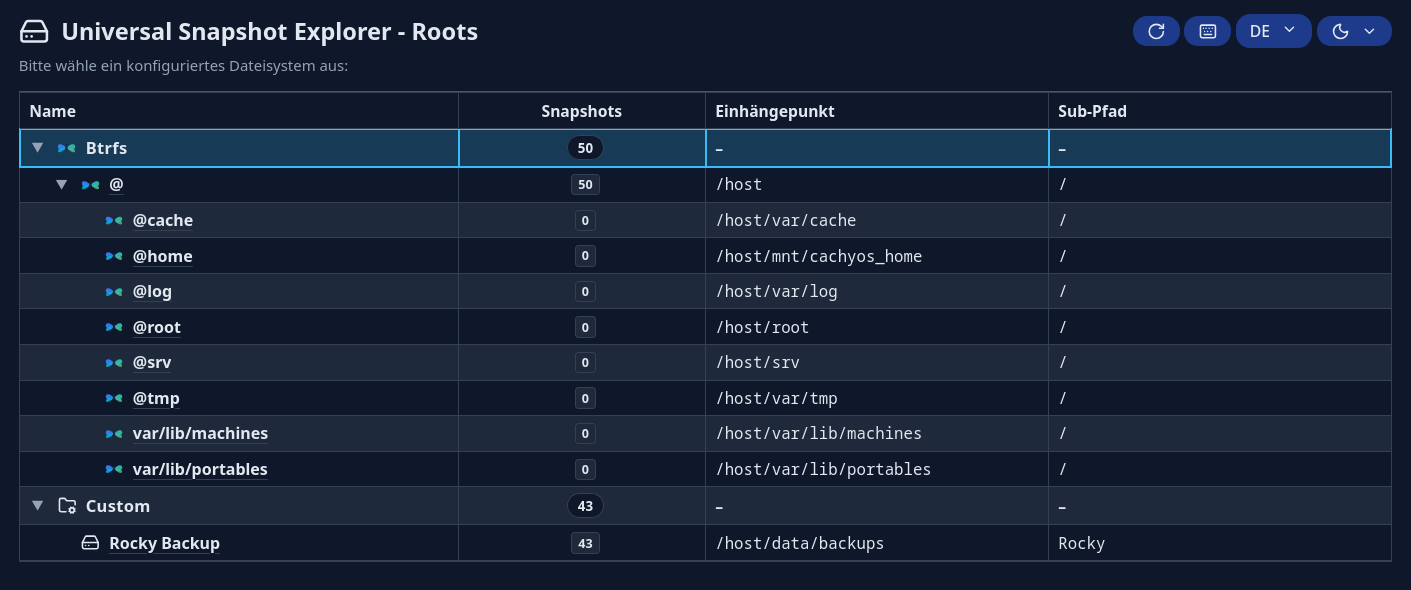
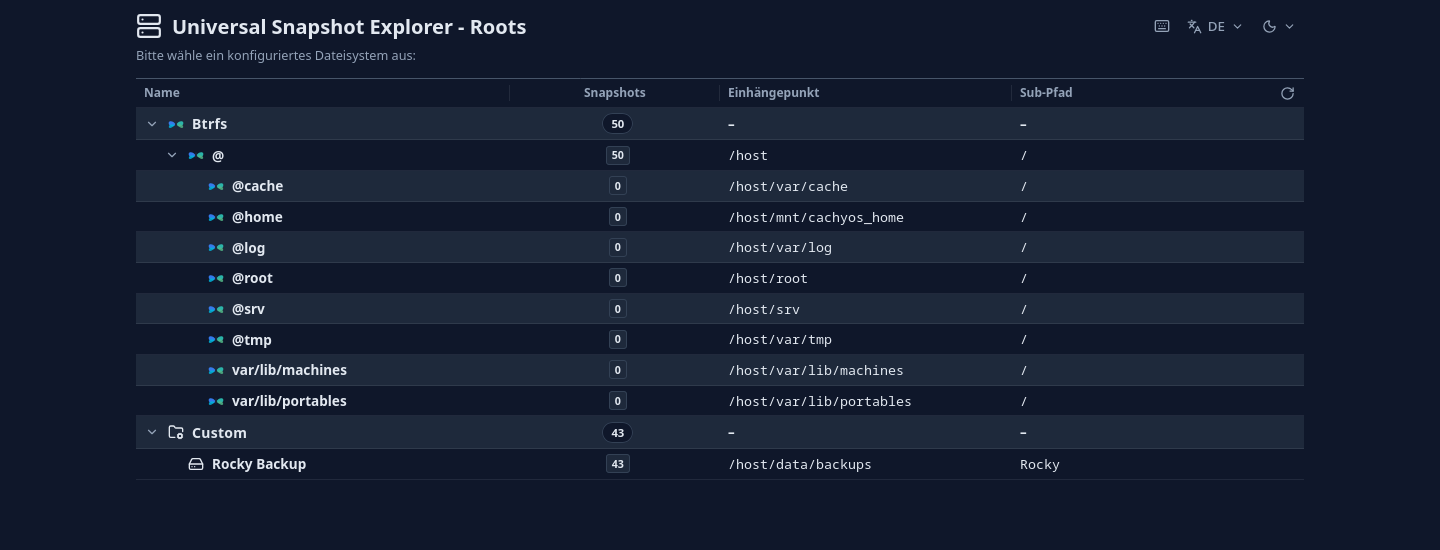
chore(release): publish v2.4.0

diff --git a/README.md b/README.md
@@ -1,4 +1,4 @@
-# Universal Snapshot Explorer (USE) 📸
+# Universal Snapshot Explorer (USE)
 
 [![CI](https://github.com/NicolasGoeddel/zfs-snapshot-explorer/actions/workflows/ci.yml/badge.svg)](https://github.com/NicolasGoeddel/zfs-snapshot-explorer/actions/workflows/ci.yml)
 [![Coverage](https://img.shields.io/badge/coverage-74%25-brightgreen.svg)](#testing--code-quality)
@@ -8,9 +8,39 @@
 [![Container Registry](https://img.shields.io/badge/Container_Registry-GHCR-blue.svg?logo=docker&logoColor=white)](https://github.com/NicolasGoeddel/zfs-snapshot-explorer/pkgs/container/universal-snapshot-explorer)
 [![License: AGPL v3](https://img.shields.io/badge/License-AGPL_v3-blue.svg)](https://github.com/NicolasGoeddel/zfs-snapshot-explorer/blob/main/LICENSE)
 
-A high-performance, lightweight, read-only web explorer and audit tool for **OpenZFS, Btrfs & POSIX filesystem snapshots**.
+I started this project last year for the following reason: On my TrueNAS server, I had a ZFS system full of backups and snapshots, and it was just way too complicated to figure out what had changed between the snapshots. Searching through the various `.zfs/snapshot` directories or checking individual folders in multiple tabs quickly becomes tedious, especially when you’re trying to figure out when a file was modified, moved, or deleted.
 
-Instead of browsing snapshots one by one or mounting snapshot directories manually over SSH, **Universal Snapshot Explorer** visualizes the complete version history of all files and folders across all available snapshots simultaneously.
+Since I’ve had over 15 years of experience with Python, I naturally built the backend with it. Frontend development, however, has never really been my thing. But jQuery and Vanilla JavaScript are fine, so I started with those. Also, I really don’t like huge frameworks with npm and the like and their endless dependency trees, so I deliberately kept it completely free of Node and other build toolchains.
+
+As AI coding assistants became increasingly more powerful, I began to bring them in under strict supervision to migrate the front end to more modern standards that I’m not familiar with, and, building on that foundation, to develop additional new features, such as the interactive timeline, the N-way file comparison, the enforcement of POSIX ACLs, and significant improvements to UI performance.
+
+---
+
+## ✨ Key Features
+
+* **📊 Interactive Dual-Timeline & Snapshot Bars:** A sticky dual-timeline panel lets you pan and zoom across your snapshot history with density-aware grouping. Each file and folder row also displays an accessible, colorblind-friendly SVG pill bar indicating creations, modifications, deletions, and static periods (sorted right-to-left from recent to old), with configurable change criteria (`size`, `mode`, `uid`, `gid`, `mtime`, etc.).
+* **⚡ Streamed UI & In-Place Folder Navigation:** Switches folders via partial HTML updates without full page reloads, streams an immediate skeleton shell so directory rows are interactive right away while snapshot bars load asynchronously, and serves CSS-mask icons alongside bundled, minified, and GZip-compressed assets.
+* **🗂 Pluggable Multi-Filesystem Support:** Native support for **OpenZFS** (`.zfs/snapshot` and ZFS CLI auto-discovery via `/dev/zfs`), **Btrfs** subvolumes (including **Snapper** `info.xml` layouts), **CephFS** (`.snap`), and generic POSIX snapshot directories.
+* **🌐 Boundary & Mount Discovery:** Automatically detects nested mount points and sub-datasets via `/proc/mounts`, rendering dedicated per-dataset snapshot timelines in table rows and breadcrumbs, organized hierarchically in the Roots Dashboard.
+* **🛡 POSIX ACL & Impersonation Support:** Optional read-only enforcement of real filesystem POSIX ACLs (`system.posix_acl_access`), authenticating users via trusted reverse-proxy HTTP headers (e.g., `Remote-User`) or static `impersonate_users` lists while respecting directory traversal and group masks.
+* **📦 Multi-Selection & Streaming ZIP Downloads:** Tri-state hierarchical folder checkboxes with `Shift+Space` range selection and on-the-fly streaming ZIP downloads with zero temporary disk files (respecting ACL restrictions).
+* **🔍 Instant Audit, Column Filters & Custom Layout:**
+  * **Column Filters:** Search per column with text/wildcards, size ranges (`5mb..10mb`), octal/symbolic mode masks (`700`, `g:x`), and relative dates (`today`).
+  * **Audit Toggles:** Filter by **Changed only**, **Missing files**, and **Hidden files** (`.*`), plus toggleable and resizable table columns persisted in browser storage.
+* **⚖ Modular N-Way File Differ:** Unified diffing engine designed to compare files across snapshots, shipping with a side-by-side `TextDiffer` plugin.
+* **⌨ Full Keyboard Navigation & Typeahead Search:**
+  * Live typeahead HUD (`A`–`Z`, `0`–`9`) to jump straight to matching entries.
+  * `↑` / `↓` to move between rows, `→` / `←` to expand/collapse or navigate up, `Enter` to open or download, `Space` / `Shift+Space` to select, `i` for file details, `Ctrl+L` / `Cmd+L` for the breadcrumb path bar, `Shift+R` to refresh caches, and `h` / `?` for the shortcut cheat sheet.
+* **📋 Deep File Details & Clean URLs:** Compare file sizes, MIME types, POSIX permissions, ownership (resolved via host or snapshot-relative `/etc/passwd` and `/etc/group`), and timestamps across snapshots using unambiguous `/-/` dataset-to-path URLs (`/list/pool/dataset/-/sub/folder`).
+* **🔒 Safe, Read-Only & Localized:** Runs completely read-only (`:ro`) with zero database overhead, automatic dark/light theme detection (`prefers-color-scheme`), and native **English**, **German**, and **French** localization.
+
+---
+
+## 🎯 Use Cases
+
+1. **Self-Service File Recovery for Teams & Homelabs:** Let users easily locate and download previous versions of their documents without needing SSH access or bothering system administrators.
+2. **Forensic Audit & Incident Response:** Instantly pinpoint the exact snapshot where a ransomware attack, faulty migration script, or unintended deletion took place.
+3. **Version History for Large Assets (Video, 3D, Audio, CAD):** A "Git-like" visual history browser for large binary assets where traditional version control systems struggle.
 
 ---
 
@@ -32,43 +62,6 @@ Instead of browsing snapshots one by one or mounting snapshot directories manual
 
 ### N-Way File Differ (Text Comparison)
 ![N-Way File Differ](assets/text-differ.png)
-
----
-
-## ✨ Key Features
-
-* **📊 Multi-Snapshot Timeline Bar:** Each file and folder features an interactive, color-coded timeline bar indicating modifications, creations, deletions, and static periods across all snapshots at a single glance. The timeline is built with accessible, colorblind-friendly SVG pill designs, and the criteria for what constitutes a "change" (e.g., Size, Permissions, UID/GID, Mtime) is fully configurable.
-* **🗂 Pluggable Multi-Filesystem Architecture:** Native support for **OpenZFS** datasets (`.zfs/snapshot`) and **Btrfs** subvolumes (including **Snapper** metadata layouts).
-* **🌐 Boundary & Mount Discovery:** Automatically detects nested mount points and sub-datasets via `/proc/mounts`, rendering dedicated per-dataset snapshot timelines in table rows and breadcrumbs.
-* **🤖 ZFS CLI Integration & Auto-Discovery:** Seamlessly discovers all active datasets across your ZFS pools with `/dev/zfs` passthrough and retrieves exact snapshot creation timestamps directly from ZFS metadata.
-* **📦 Checkbox Multi-Selection & Streaming ZIP Download:** Select multiple files or folders across any snapshot and download them instantly as an on-the-fly streaming ZIP archive without creating temporary files on disk.
-* **🛡 POSIX ACL & Permissions Enforcement:** Fully replicates the kernel's access-control logic. If the user doesn't have read access to a file, they can't see or download it. Operates via HTTP headers (like TrueNAS auth proxies) and correctly evaluates inherited group mask and traversal permissions.
-* **🔍 Instant Audit & Advanced Column Filters:**
-  * **Column Filters:** Powerful search strategies per column, including size ranges (`5mb..10mb`), octal mode masks (`700`, `g:x`), relative dates (`today`), and wildcards.
-  * **"Changed only"** (`history` icon): Instantly filter out static files to spot what was modified, added, or deleted between snapshots.
-  * **"Missing files"** (`ghost` icon): Toggle visibility of files that do not exist in the current snapshot.
-  * **"Hidden files"** (`eye-off` icon): Toggle visibility of dotfiles (`.*`).
-* **⚖ Modular N-Way File Differ:** A unified diffing engine designed to compare files across multiple snapshots simultaneously (currently equipped with a TextDiffer plugin for side-by-side 2-way text comparisons).
-* **⌨ Full Keyboard Navigation:**
-  * `↑` / `↓`: Navigate through rows.
-  * `→` / `←`: Expand/collapse folders or navigate to parent directories.
-  * `Enter`: Open selected folder or download file.
-  * `i`: Open deep version details view.
-  * `Ctrl + L` / `Cmd + L`: Jump to breadcrumb path bar with live typeahead.
-  * `h` / `?`: Open keyboard shortcuts cheat sheet.
-* **🧭 Clean URL Structure (`/-/` Delimiter):** Uses the proven GitLab/GitHub delimiter pattern (`/list/pool/dataset/-/sub/folder`) for unambiguous navigation in deeply nested dataset pools.
-* **📋 Deep File Details & Change History:** Compare file sizes, MIME types, POSIX permissions, ownership (UID/GID resolved via host `/etc/passwd`), and timestamps across all snapshot versions.
-* **🔒 Safe & Read-Only:** Operates completely read-only (`:ro`). Zero database, zero storage overhead, and zero risk of accidental data modification.
-* **🌓 Modern Dark & Light Theming:** Seamless system theme detection (`prefers-color-scheme`) with an instant toggle and Lucide vector icons.
-* **🌍 Multi-Language Support (i18n):** Native support for English and German with automatic browser language detection.
-
----
-
-## 🎯 Use Cases
-
-1. **Self-Service File Recovery for Teams & Homelabs:** Let users easily locate and download previous versions of their documents without needing SSH access or bothering system administrators.
-2. **Forensic Audit & Incident Response:** Instantly pinpoint the exact snapshot where a ransomware attack, faulty migration script, or unintended deletion took place.
-3. **Version History for Large Assets (Video, 3D, Audio, CAD):** A "Git-like" visual history browser for large binary assets where traditional version control systems struggle.
 
 ---
 
@@ -110,7 +103,15 @@ services:
       - PYTHONUNBUFFERED=1
 ```
 
-### 2. `config.yaml`
+### 2. `docker run`
+
+The exact same setup as a single `docker run` command:
+
+```sh
+docker run -d --name universal-snapshot-explorer --restart unless-stopped -p 8090:8080 --privileged --security-opt apparmor=unconfined --cap-add SYS_ADMIN --device /dev/zfs:/dev/zfs -v /:/host:ro,rslave -v "$PWD/config.yaml:/app/config.yaml:ro" -e PYTHONUNBUFFERED=1 ghcr.io/nicolasgoeddel/universal-snapshot-explorer:latest
+```
+
+### 3. `config.yaml`
 
 ```yaml
 # Global OpenZFS Auto-Discovery Configuration
@@ -188,6 +189,15 @@ roots:
     filesystem_type: btrfs
     user_map: etc/passwd
     group_map: etc/group
+
+# Optional: Authenticated access with POSIX ACL enforcement (disabled by default)
+# security:
+#   enabled: true
+#   trusted_user_header: Remote-User
+#   # Optional: For standalone setups without an auth proxy, impersonate the union of these users
+#   impersonate_users:
+#     - alice
+#     - bob
 
 # Log verbosity level. Supported values: debug, info, warning, error, critical
 loglevel: info

diff --git a/RELEASES.md b/RELEASES.md
@@ -6,6 +6,44 @@ This project adheres to [Semantic Versioning (SemVer)](https://semver.org/).
 
 ---
 
+## [2.4.0] - 2026-11-20
+
+> **Minor Release: In-Place Folder Navigation, Streamed Skeleton Loading & Major UI/Server Speedups**
+
+### 🚀 Highlights & New Features
+
+* **In-Place Folder Navigation (#11):**
+  * Added partial HTML navigation (`/list/...?partial=1`) to switch folders without full page reloads, falling back to full loads on errors or dataset boundaries.
+* **Streamed Skeleton Loading (#14):**
+  * Removed the blocking snapshot loading overlay so rows are interactive immediately while snapshot bars populate asynchronously.
+  * Streamed `/list/...` responses with an immediate skeleton shell and a 100 ms row render budget, handing off slower renders via single-use, owner- and target-bound tokens.
+
+### ⚡ Performance & Asset Optimization
+
+* **Icons, Bundling & Compression:**
+  * Replaced per-row inline Lucide SVGs with a cached CSS-mask stylesheet (`/icons.css`).
+  * Added CSS/JS bundling and minification (`/bundle.{kind}` via `rcssmin`/`rjsmin`) with immutable cache headers, bypassed in debug mode (`--reload` or `USE_DEBUG_ASSETS=1`).
+  * Added GZip compression (`PagesGZipMiddleware`) for pages and assets (excluding `/download/` and `/download-zip/`) and compile-time Jinja2 whitespace stripping.
+* **Backend & Render Pipeline:**
+  * Evaluated ACL checks and icon selection once per row (down from 9.1 and 4.0 checks), deferred snapshot bar computation until row rendering finishes, and cached the `btrfs` binary lookup (~250 ms -> ~4 ms on the roots page).
+  * Split `TableSortOrder` from `TableSorter` for early sorting before deferred scripts load and preloaded `/api/snapshot-bars/...` from `<head>`.
+* **Measured Impact (10k-entry folder benchmark, local server, warm cache):**
+  * Server render time dropped from `3.5 s` to `0.8 s`, and transferred row payload dropped from `37.3 MB` to `479 KB` (`17.9 MB` uncompressed).
+  * Browser fresh-visit row load improved from `17.4 s` to `4.6 s` (time to interactive: `22.9 s` -> `0.25 s`), and throttled (9 Mbit/s, 150 ms latency) folder navigation improved from `40.8 s` to `4.8 s`.
+
+### 🐛 Bug Fixes & Dependencies
+
+* **Broken Symlinks:**
+  * Treated broken symlinks as stat-visible entries instead of logging tracebacks or showing them as permission-denied on directory listings.
+* **Dependencies & Tests:**
+  * Upgraded `certifi` to `2026.10.23` in `uv.lock` (#12) and gave snapshot test fixtures distinct `mtime` values (#13).
+
+### 🙏 Contributors
+
+* Thanks to **@ShyneTurtle** for authoring all features, performance optimizations, dependency updates, and fixes in this release (#11, #12, #13, #14).
+
+---
+
 ## [2.3.0] - 2026-09-28
 
 > **Minor Release: Interactive Snapshot Timeline, Major UI Redesign & ACL Permission Support**
